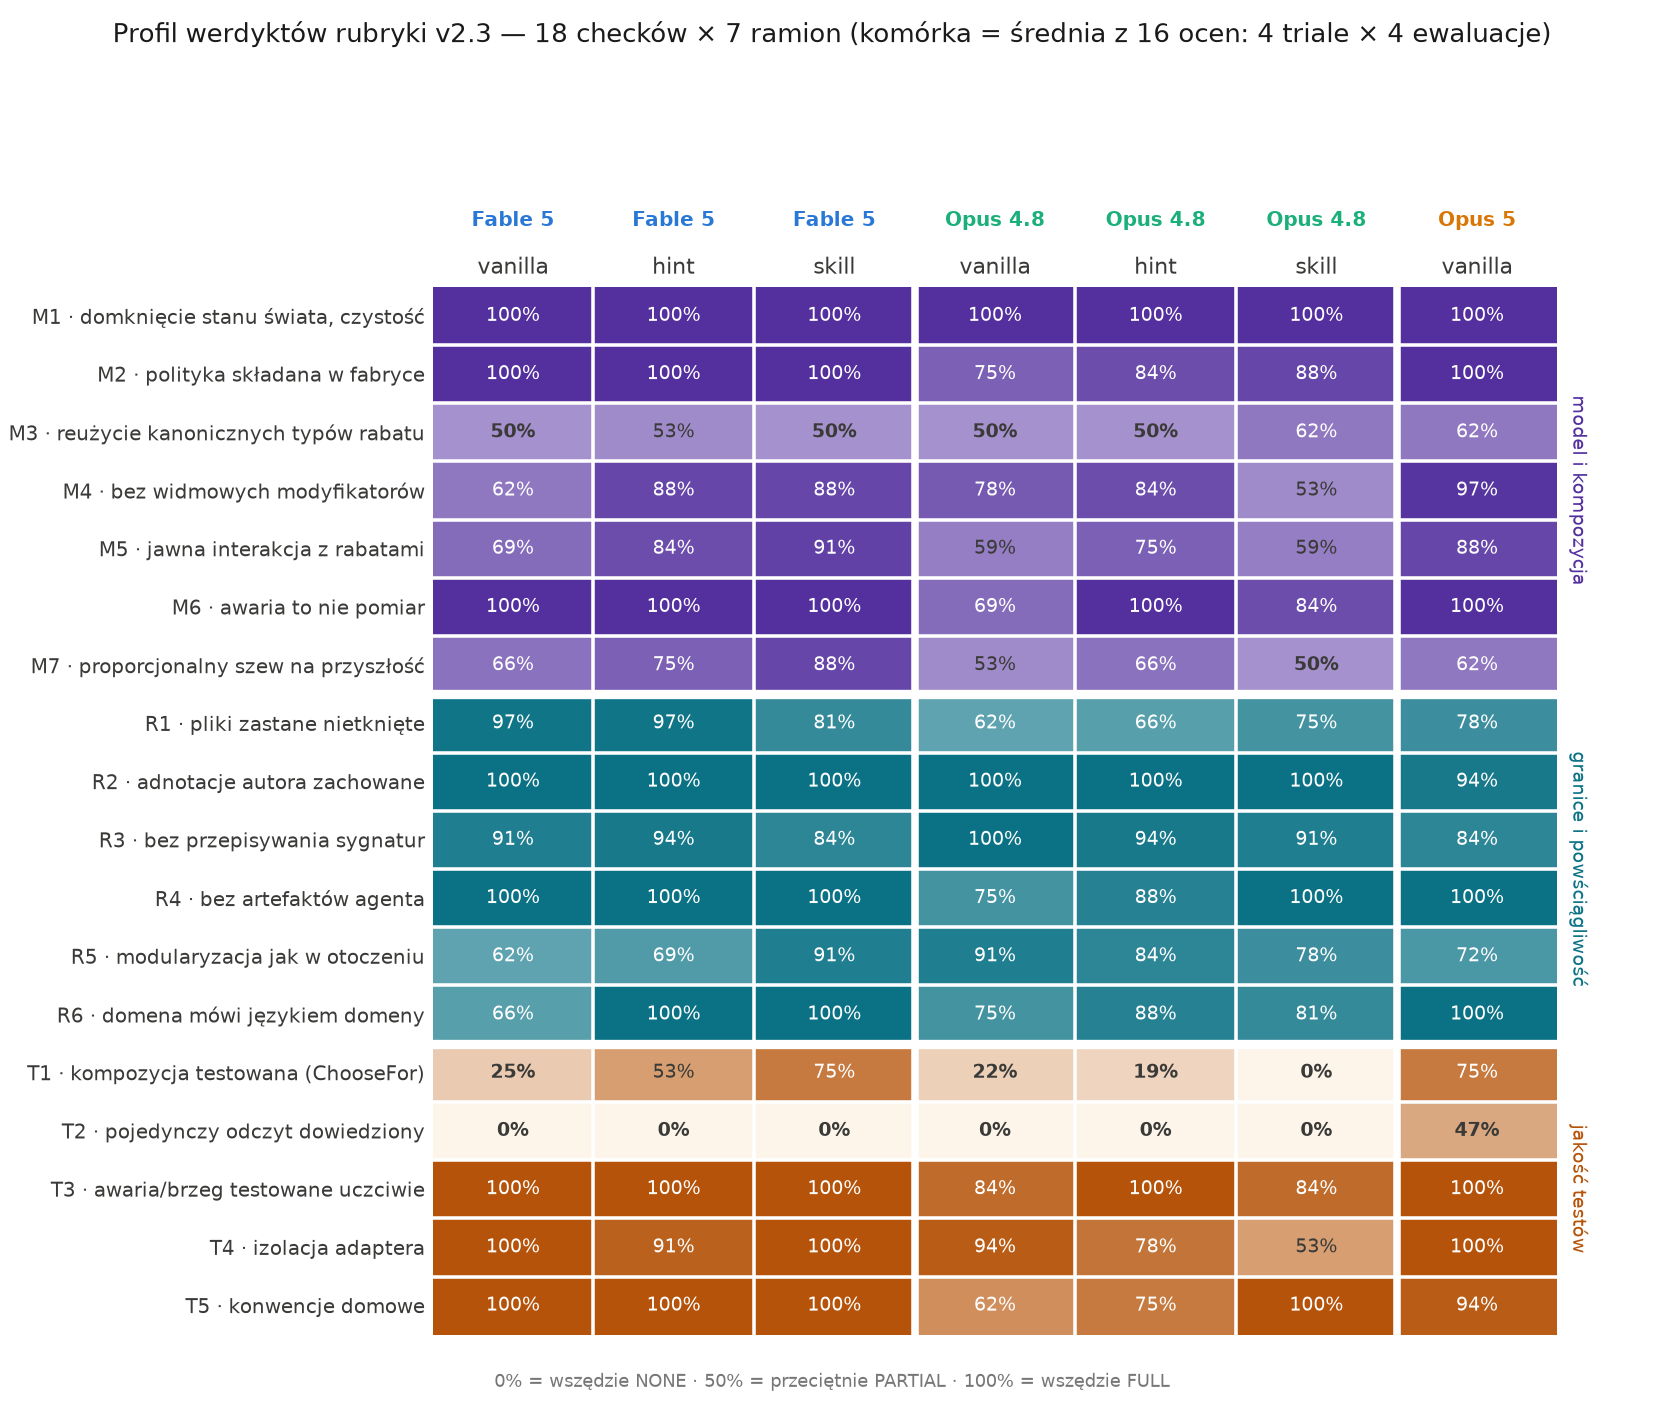
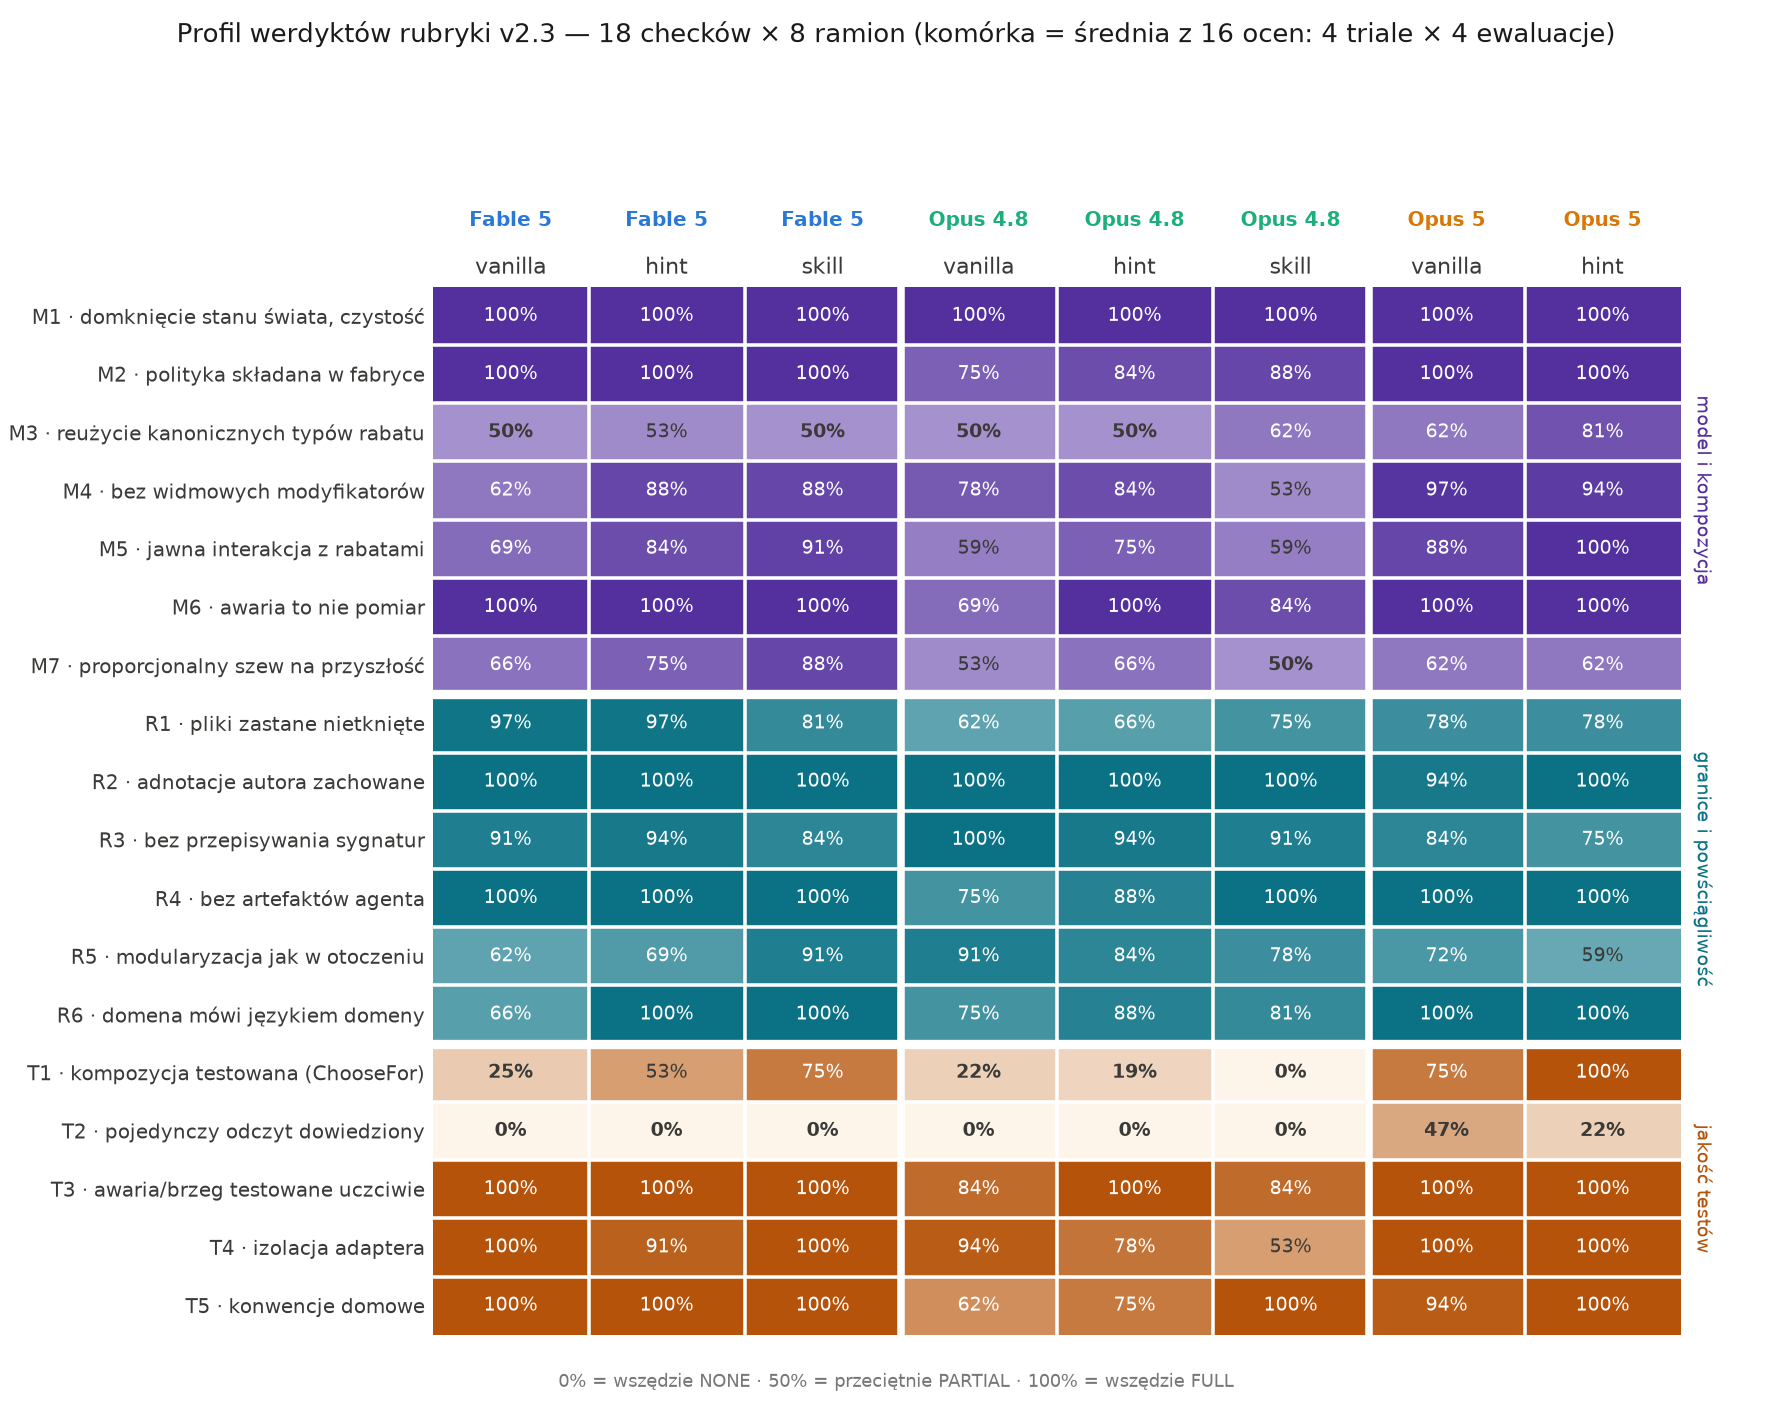
viz: add Opus 5 hint arm (8 arms total, PL+EN)
Hint arm n=4 (UBsUYEb, ycb5f8S, 24pWHEZ, bC6TqMF): $7.47 / 0.866.
Heatmap notable: T1 100% and M5 100% on Opus 5 hint; T2 22% (vs 47%
vanilla). 128/128 evals parsed, flags unchanged (3 known).

Claude-Session: https://claude.ai/code/session_0112rjaT9dWVPXhqm2FCQQPh

diff --git a/examples/ddd-architectural-challenges/verdict_heatmap.py b/examples/ddd-architectural-challenges/verdict_heatmap.py
@@ -29,10 +29,11 @@ ARMS: dict[tuple[str, str], list[str]] = {
     ("Opus 4.8", "hint"): ["YgcbZjf", "VoktgLb", "sSUYQp4", "a6okSgZ"],
     ("Opus 4.8", "skill"): ["ZMX6Xbq", "TsjcHWY", "Bkwiqom", "F5vYATs"],
     ("Opus 5", "vanilla"): ["i9ivEds", "m82SdTE", "Yi8S8wA", "Wipg7XN"],
+    ("Opus 5", "hint"): ["UBsUYEb", "ycb5f8S", "24pWHEZ", "bC6TqMF"],
 }
 ARM_ORDER = [("Fable 5", "vanilla"), ("Fable 5", "hint"), ("Fable 5", "skill"),
              ("Opus 4.8", "vanilla"), ("Opus 4.8", "hint"), ("Opus 4.8", "skill"),
-             ("Opus 5", "vanilla")]
+             ("Opus 5", "vanilla"), ("Opus 5", "hint")]
 CODER_COLOR = {"Fable 5": "#2a78d6", "Opus 4.8": "#1baf7a", "Opus 5": "#d97706"}
 # Panel frozen at 2x Fable + 2x Opus 4.8 per trial; evals by other judge models
 # (the claude-opus-5 judge pilot) share the fingerprint and must be excluded.
@@ -91,14 +92,14 @@ LABELS = {
 }
 TEXT = {
     "pl": {
-        "title": "Profil werdyktów rubryki v2.3 — 18 checków × 7 ramion "
+        "title": "Profil werdyktów rubryki v2.3 — 18 checków × 8 ramion "
                  "(komórka = średnia z 16 ocen: 4 triale × 4 ewaluacje)",
         "scale": "0% = wszędzie NONE · 50% = przeciętnie PARTIAL · 100% = wszędzie FULL",
         "groups": {"M": "model i kompozycja", "R": "granice i powściągliwość", "T": "jakość testów"},
         "out": "verdict_heatmap.png",
     },
     "en": {
-        "title": "Rubric v2.3 verdict profile — 18 checks × 7 arms "
+        "title": "Rubric v2.3 verdict profile — 18 checks × 8 arms "
                  "(cell = mean of 16 evaluations: 4 trials × 4 evals)",
         "scale": "0% = NONE everywhere · 50% = PARTIAL on average · 100% = FULL everywhere",
         "groups": {"M": "model & composition fit", "R": "boundaries & restraint", "T": "test quality"},
@@ -209,7 +210,7 @@ def heatmap(per_arm: dict, lang: str) -> None:
              for arm in ARM_ORDER] for c in CHECKS]
     rgba = [[CMAPS[c[0]](v) for v in row] for c, row in zip(CHECKS, grid)]
 
-    fig, ax = plt.subplots(figsize=(10.4, 8.8))
+    fig, ax = plt.subplots(figsize=(11.2, 8.8))
     fig.suptitle(t["title"], fontsize=11.5, color=INK, y=0.985)
     ax.imshow(rgba, aspect="auto")
 
@@ -254,7 +255,7 @@ def heatmap(per_arm: dict, lang: str) -> None:
 if __name__ == "__main__":
     per_arm, flags = collect()
     n = sum(len(v) for v in per_arm.values())
-    print(f"evals parsed: {n} (expected 112)")
+    print(f"evals parsed: {n} (expected 128)")
     for fl in flags:
         print("FLAG", fl)
     for lang in ("pl", "en"):

diff --git a/examples/ddd-architectural-challenges/cost_quality_plane.py b/examples/ddd-architectural-challenges/cost_quality_plane.py
@@ -27,6 +27,7 @@ ARMS: dict[tuple[str, str], list[str]] = {
     ("Opus 4.8", "hint"): ["YgcbZjf", "VoktgLb", "sSUYQp4", "a6okSgZ"],
     ("Opus 4.8", "skill"): ["ZMX6Xbq", "TsjcHWY", "Bkwiqom", "F5vYATs"],
     ("Opus 5", "vanilla"): ["i9ivEds", "m82SdTE", "Yi8S8wA", "Wipg7XN"],
+    ("Opus 5", "hint"): ["UBsUYEb", "ycb5f8S", "24pWHEZ", "bC6TqMF"],
 }
 MODEL_ID = {"Fable 5": "claude-fable-5", "Opus 4.8": "claude-opus-4-8", "Opus 5": "claude-opus-5"}
 # The article's judge panel is frozen at 2x Fable + 2x Opus 4.8; evals by other
@@ -79,6 +80,7 @@ LABEL_OFFSET = {
     ("Opus 4.8", "hint"): (14, -4, "left"),
     ("Opus 4.8", "skill"): (14, -4, "left"),
     ("Opus 5", "vanilla"): (-14, 2, "right"),
+    ("Opus 5", "hint"): (14, 2, "left"),
 }
 
 
